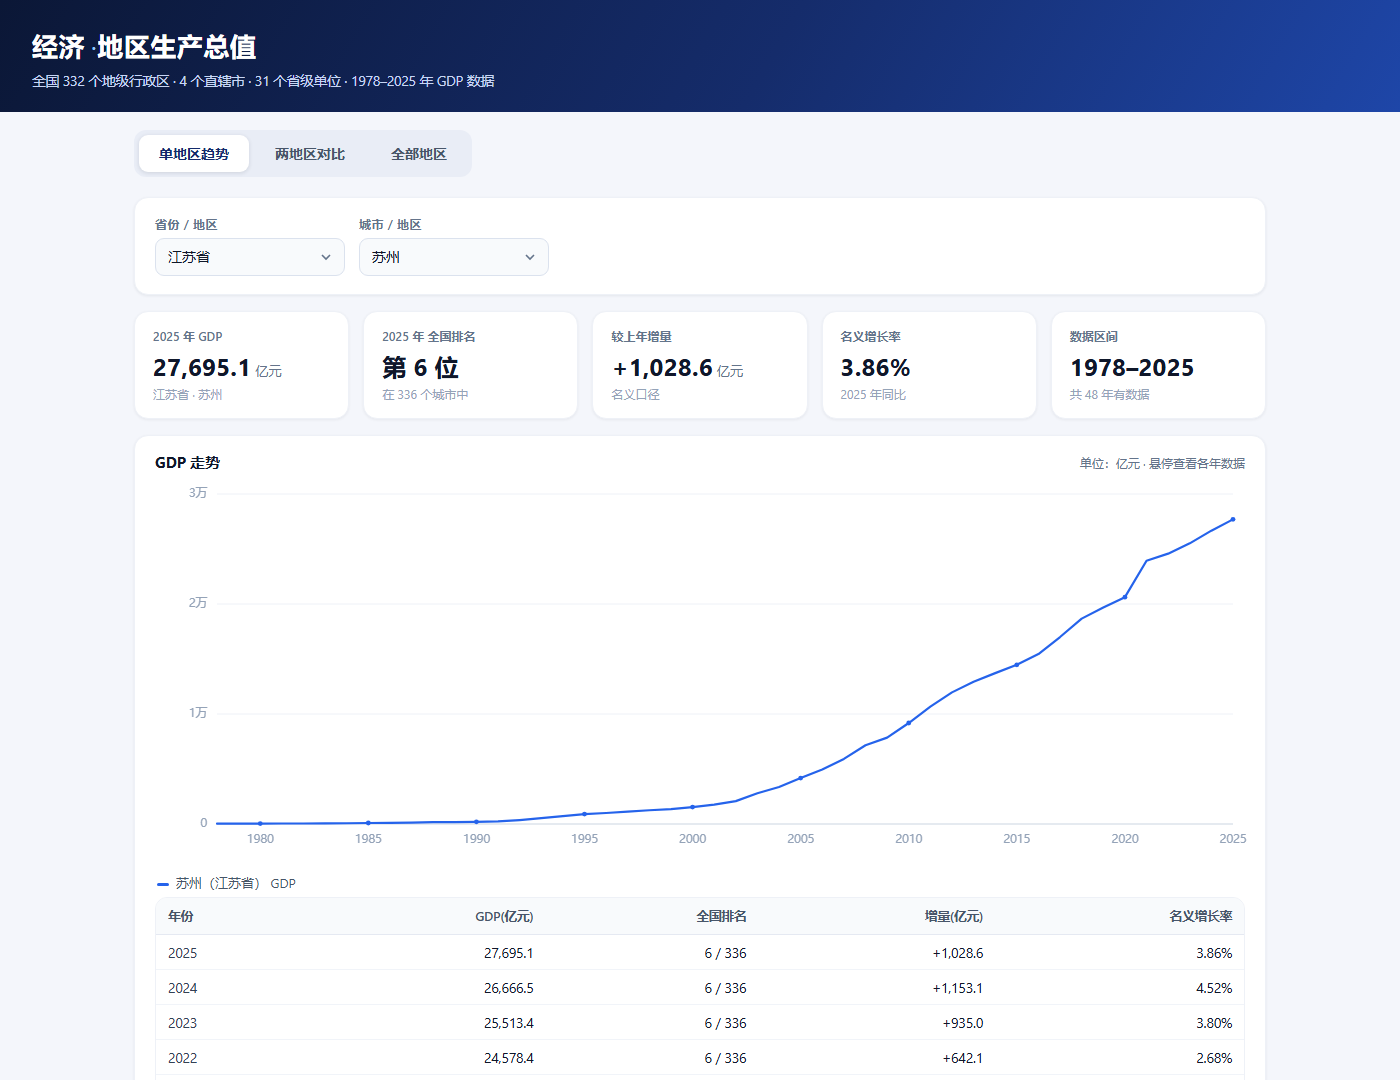
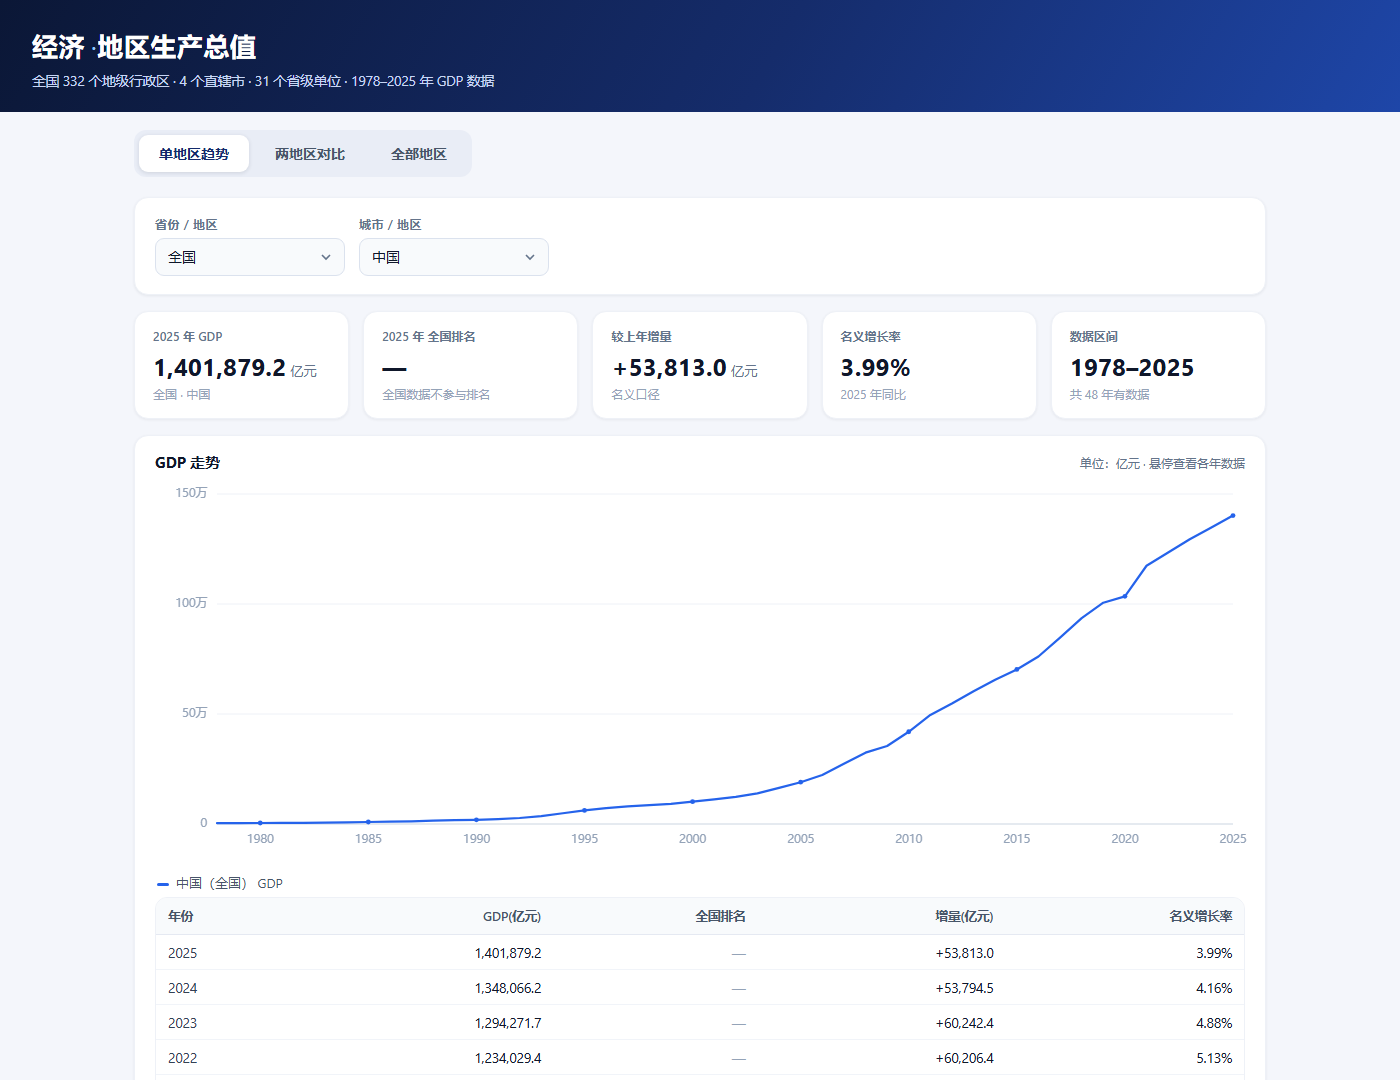
Add files via upload

diff --git a/index.html b/index.html
@@ -744,10 +744,10 @@ const DATA = [{"id":"中国","label":"中国","province":"全国","kind":"nation
   const sub = document.querySelector('header p');
   if (sub) sub.textContent = "全国 " + cityCount + " 个地级行政区 · " + munis.length + " 个直辖市 · " + provCount + " 个省级单位 · 1978–2025 年 GDP 数据";
 
-  fillProv(EL.sProv, "广东");
-  fillRegion(EL.sRegion, "广东", "广东/深圳");
-  fillProv(EL.aProv, "广东"); fillRegion(EL.aRegion, "广东", "广东/深圳");
-  fillProv(EL.bProv, "广东"); fillRegion(EL.bRegion, "广东", "广东/广州");
+  fillProv(EL.sProv, "全国");
+  fillRegion(EL.sRegion, "全国", "中国");
+  fillProv(EL.aProv, "广东"); fillRegion(EL.aRegion, "广东", "广东");
+  fillProv(EL.bProv, "江苏"); fillRegion(EL.bRegion, "江苏", "江苏");
   renderSingle();
   renderCompare();
   renderAll();

diff --git a/template.html b/template.html
@@ -744,10 +744,10 @@ const DATA = __DATA__;
   const sub = document.querySelector('header p');
   if (sub) sub.textContent = "全国 " + cityCount + " 个地级行政区 · " + munis.length + " 个直辖市 · " + provCount + " 个省级单位 · 1978–2025 年 GDP 数据";
 
-  fillProv(EL.sProv, "广东");
-  fillRegion(EL.sRegion, "广东", "广东/深圳");
-  fillProv(EL.aProv, "广东"); fillRegion(EL.aRegion, "广东", "广东/深圳");
-  fillProv(EL.bProv, "广东"); fillRegion(EL.bRegion, "广东", "广东/广州");
+  fillProv(EL.sProv, "全国");
+  fillRegion(EL.sRegion, "全国", "中国");
+  fillProv(EL.aProv, "广东"); fillRegion(EL.aRegion, "广东", "广东");
+  fillProv(EL.bProv, "江苏"); fillRegion(EL.bRegion, "江苏", "江苏");
   renderSingle();
   renderCompare();
   renderAll();

diff --git a/README.md b/README.md
@@ -123,7 +123,7 @@ python -m http.server 8000
 
 ```bash
 python build.py
-# index.html 已生成：519,023 字节，364 个地区
+# index.html 已生成：520,361 字节，364 个地区
 ```
 
 `build.py` 会把 `data.json` 原样注入模板的 `__DATA__` 处，并对 `</` 做转义，避免数据截断内联脚本。
